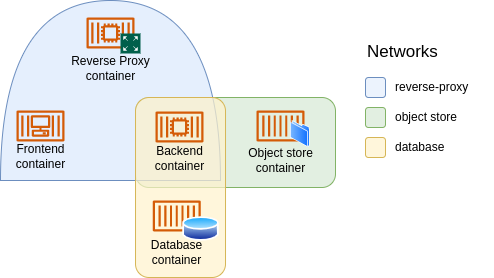
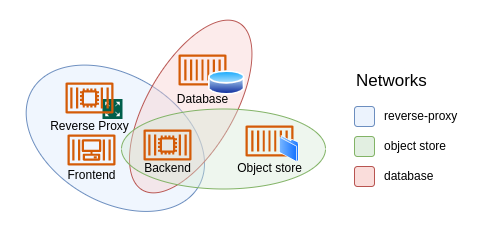
Wording and structure

diff --git a/README.md b/README.md
@@ -18,19 +18,16 @@ English is not my main language, sorry in advance for any typos or grammar error
    - [Common services](./sections/architecture.md#common-services)
    - [Persistent data](./sections/architecture.md#persistent-data)
    - [Reverse proxy](./sections/architecture.md#reverse-proxy)
-   - [Overlay networks](./sections/architecture.md#centralservices)
+   - [Overlay networks](./sections/architecture.md#overlay-networks)
  - [Setup](./sections/setup.md) TBW
-   - [OS and software](./sections/setup.md#install) TBW
-   - [Testing the setup](./sections/setup.md#testing) TBW
-   - [NFS for persistent storage](./sections/setup.md#NFS) TBW
+   - [OS and software](./sections/setup.md#os-and-software) TBW
+   - [Testing the setup](./sections/setup.md#testing-the-setup) TBW
+   - [Cluster management as a service](./sections/setup.md#cluster-management-as-a-service) TBW
+   - [Access from the internet](./sections/networking.md#access-from-the-internet) TBW
  - [Central services](./sections/services.md) TBW
-   - [Databases](./sections/services.md#postgres) TBW
-   - [Object Store](./sections/services.md#minio) TBW
-   - [Reverse Proxy](./sections/setup.md#traefik) TBW
- - [Networking](./sections/networking.md) TBW
-   - [Access from the internet](./sections/networking.md#internet) TBW
-   - [Testing central services](./sections/networking.md#testing) TBW
- - [Self-hosting Services](./sections/deploy.md) TBW
-   - [Installing Portainer](./sections/deploy.md#portainer) TBW
+   - [Databases](./sections/services.md#databases) TBW
+   - [Object Store](./sections/services.md#object-store) TBW
+   - [Reverse Proxy](./sections/setup.md#reverse-proxy) TBW
+ - [Self-hosting paradise](./sections/deploy.md) TBW
    - [Prerequisites](./sections/deploy.md#prerequisites) TBW
    - [An example application](./sections/deploy.md#example) TBW

diff --git a/sections/architecture.md b/sections/architecture.md
@@ -54,8 +54,10 @@ As an example, let us assume we have one container for each of Postgres, MinIO a
  - A backend that uses a database and an object store, and is exposed via `service.swarmadventures.com/api`.
  - A frontend bundle that is served via the reverse proxy.
 
-Then, the conceptual map would look as follows:
+The conceptual map would look as follows:
 
 ![Overlay Networks](../images/overlay-networks.png)
+
+Here each ellipsis represents a network and each box represents a container. We are considering, of course, that containers could be in different machines. 
 
 One thing to take into account here is that all applications using one service will form part of the same network. For example the frontend and backend really don't need to communicate, but they could via the `reverse-proxy` network. Moreover, the backends of two unrelated applications could be connected via the `database` network. Real paranoids would further isolate different services, but I don't want to create too many networks in my cluster.
